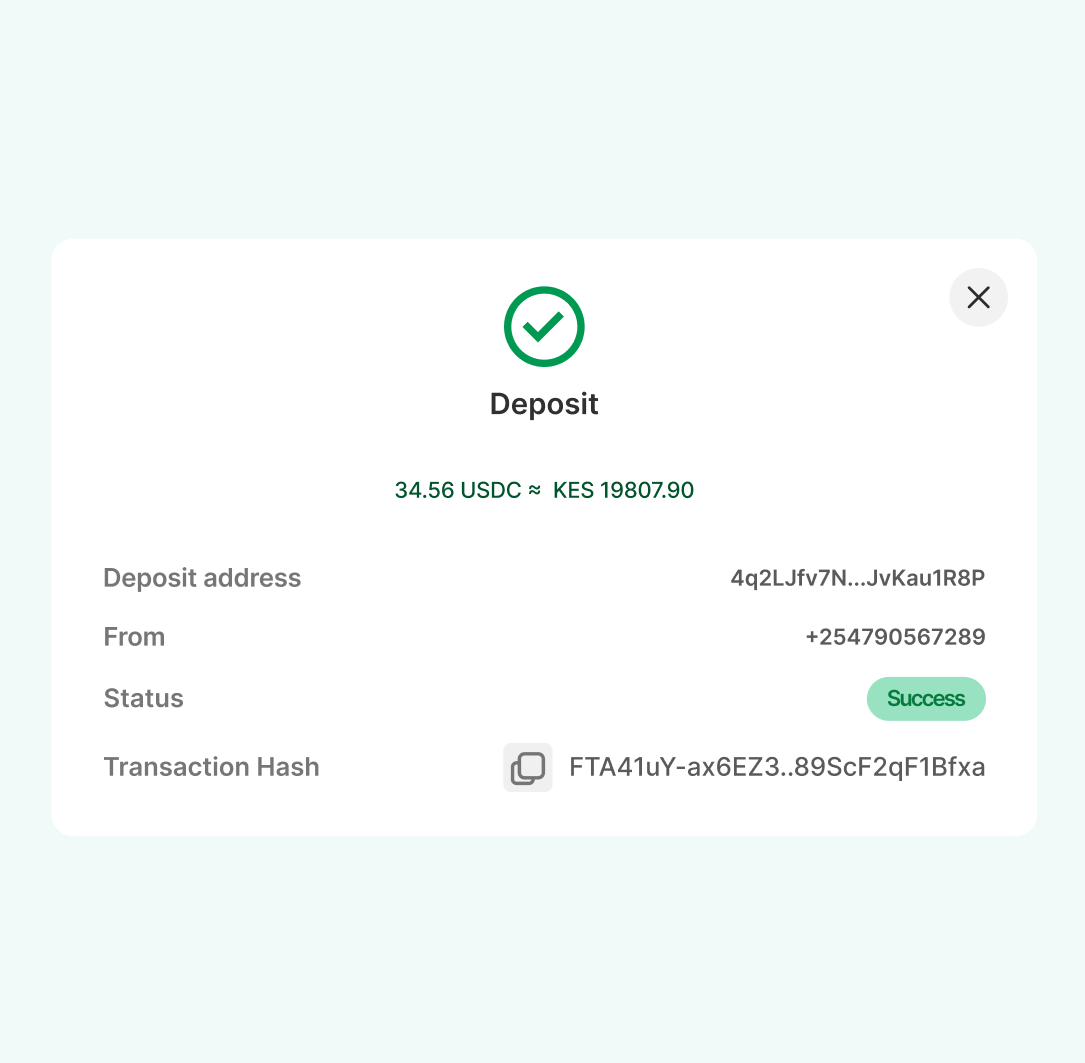
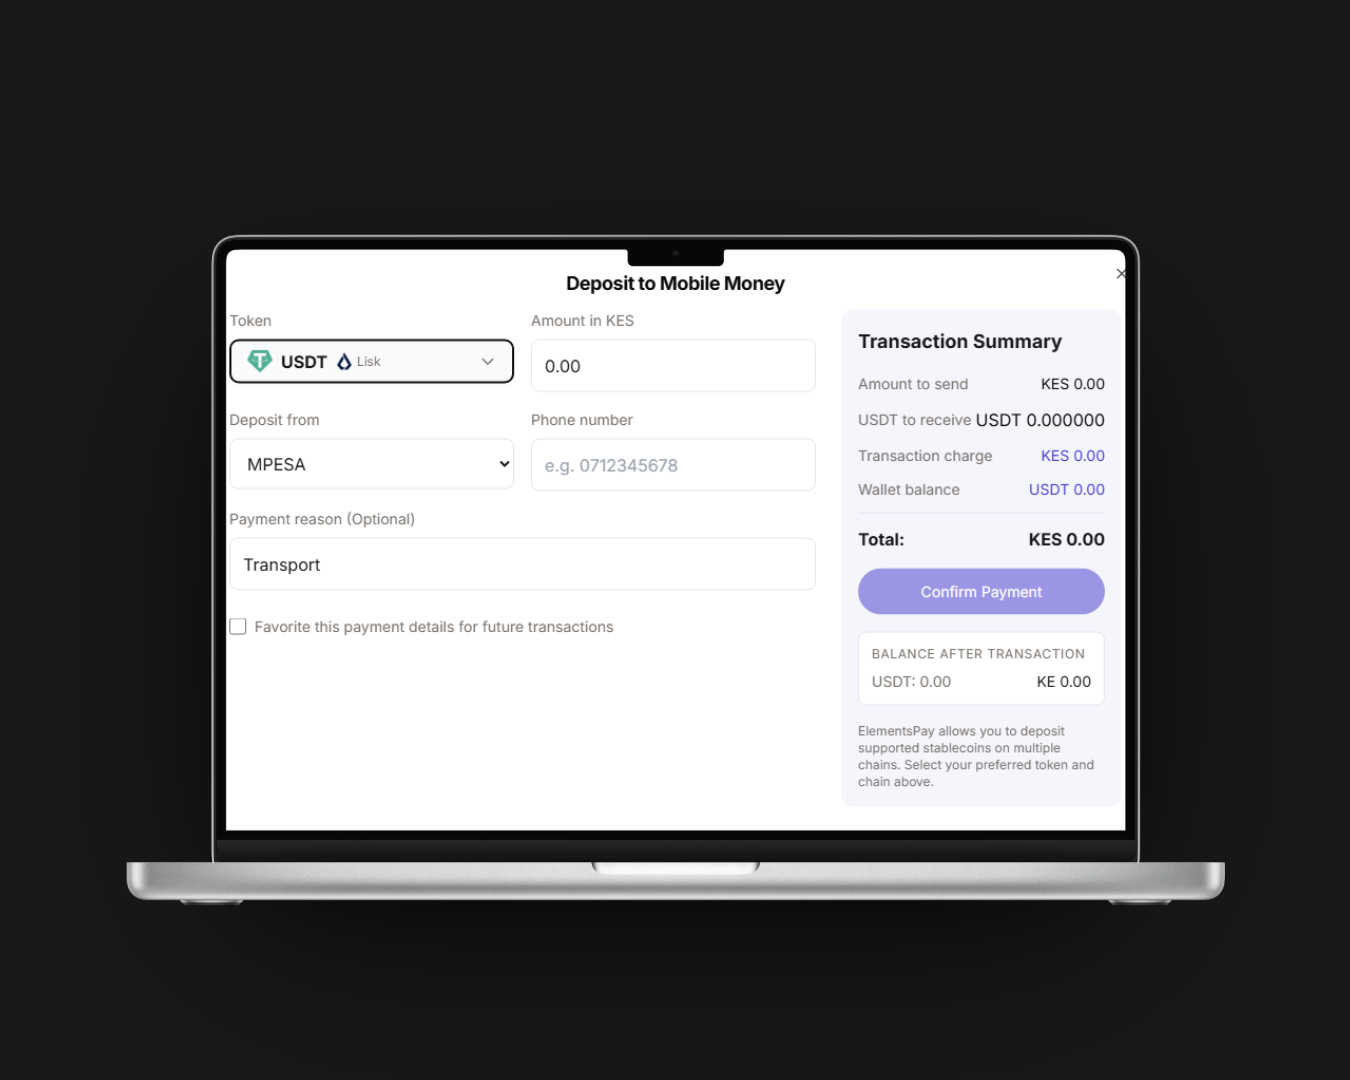
fix(mobile-ui): improve carousel visuals, OTP input behavior, and wallet layout responsiveness

diff --git a/src/components/auth/OTPStep.tsx b/src/components/auth/OTPStep.tsx
@@ -10,11 +10,6 @@ import { useAuthModalStore } from "@/stores/authModalStore";
 const OTP_LENGTH = 6;
 const RESEND_COOLDOWN = 60; // seconds
 
-/**
- * Compute the initial resend-cooldown based on the stored OTP request time.
- * If the OTP was requested recently (< RESEND_COOLDOWN ago), return the
- * remaining seconds.  Otherwise return 0 (allow immediate resend).
- */
 function initialCooldown(): number {
   const { otpRequestedAt } = useAuthStore.getState();
   if (!otpRequestedAt) return 0;
@@ -38,41 +33,68 @@ const OTPStep = () => {
   const otp = digits.join("");
   const isComplete = otp.length === OTP_LENGTH;
 
-  // If the OTP has expired (> 15 min) send user back to email step
   useEffect(() => {
     if (!otpRequestedAt || Date.now() - otpRequestedAt < OTP_TTL_MS) return;
     setModalError("Your verification code has expired. Please request a new one.");
     setStep("email");
   }, [otpRequestedAt, setStep, setModalError]);
 
-  // Countdown timer for resend
   useEffect(() => {
     if (cooldown <= 0) return;
     const id = setInterval(() => setCooldown((c) => c - 1), 1000);
     return () => clearInterval(id);
   }, [cooldown]);
 
-  // Auto-focus first input on mount
   useEffect(() => {
     inputsRef.current[0]?.focus();
   }, []);
 
+  /**
+   * Core helper: fill digits array from a raw string and focus appropriately.
+   * Used by both paste and onChange handlers.
+   */
+  const applyDigits = useCallback(
+    (raw: string, startIdx = 0) => {
+      const cleaned = raw.replace(/\D/g, "").slice(0, OTP_LENGTH - startIdx);
+      if (!cleaned) return;
+      setDigits((prev) => {
+        const next = [...prev];
+        for (let i = 0; i < cleaned.length; i++) {
+          next[startIdx + i] = cleaned[i];
+        }
+        return next;
+      });
+      setError(null);
+      setModalError(null);
+      const focusIdx = Math.min(startIdx + cleaned.length, OTP_LENGTH - 1);
+      // defer so the state update has landed before we shift focus
+      requestAnimationFrame(() => inputsRef.current[focusIdx]?.focus());
+    },
+    [setModalError],
+  );
+
   const handleChange = useCallback(
     (idx: number, value: string) => {
-      // Only allow single digit
+      // Mobile paste via onChange: value may be > 1 char
+      if (value.length > 1) {
+        applyDigits(value, idx === 0 ? 0 : idx);
+        return;
+      }
+
       const digit = value.replace(/\D/g, "").slice(-1);
-      const next = [...digits];
-      next[idx] = digit;
-      setDigits(next);
+      setDigits((prev) => {
+        const next = [...prev];
+        next[idx] = digit;
+        return next;
+      });
       if (error) setError(null);
       setModalError(null);
 
-      // Auto-advance to next input
       if (digit && idx < OTP_LENGTH - 1) {
         inputsRef.current[idx + 1]?.focus();
       }
     },
-    [digits, error, setModalError],
+    [error, setModalError, applyDigits],
   );
 
   const submitOtp = useCallback(async () => {
@@ -88,30 +110,21 @@ const OTPStep = () => {
     setLoading(true);
     setModalError(null);
     try {
-      // Call verify-otp which returns user data (tokens stored as HTTP-only cookies)
       const res = await verifyOTP(pendingEmail, otp);
       console.log("[OTPStep] verifyOTP response received");
-
       console.log("[OTPStep] User KYC status:", res.user?.kyc_status ?? "not returned");
       console.log("[OTPStep] User wallets:", res.user?.wallets ?? "not returned");
 
-      // Store auth — user profile may be incomplete until KYC is done
-      // kyc_status defaults to "none" if backend doesn't send it yet
       const user = {
         ...res.user,
         kyc_status: res.user?.kyc_status ?? "none",
       };
-
       setAuth(user);
 
-      // Store pre-fetched Privy RS256 token so PrivyAuthSync can use it
-      // without making a second HTTP call.
       if (res.privy_token) {
         useAuthStore.getState().setPrivyToken(res.privy_token);
       }
 
-      // Fast-track: if backend already has a registered embedded wallet for
-      // this user, skip wallet-choice and connect-wallet steps entirely.
       const hasRegisteredEmbeddedWallet = res.user?.wallets?.some(
         (w) => w.wallet_type === "embedded" || w.wallet_type === "privy"
       );
@@ -130,7 +143,6 @@ const OTPStep = () => {
         return;
       }
 
-      // Move to wallet choice step (embedded vs external)
       console.log("[OTPStep] Moving to wallet choice step");
       setStep("wallet-choice");
     } catch (err: any) {
@@ -144,12 +156,9 @@ const OTPStep = () => {
     (idx: number, e: React.KeyboardEvent<HTMLInputElement>) => {
       if (e.key === "Enter") {
         e.preventDefault();
-        if (isComplete && !loading) {
-          void submitOtp();
-        }
+        if (isComplete && !loading) void submitOtp();
         return;
       }
-
       if (e.key === "Backspace" && !digits[idx] && idx > 0) {
         inputsRef.current[idx - 1]?.focus();
       }
@@ -157,28 +166,24 @@ const OTPStep = () => {
     [digits, isComplete, loading, submitOtp],
   );
 
+  /**
+   * Paste handler — covers:
+   *  - Desktop: clipboardData fires on the wrapping div
+   *  - iOS/Android: if browser fires paste on the input itself
+   */
   const handlePaste = useCallback(
-    (e: React.ClipboardEvent) => {
+    (e: React.ClipboardEvent, startIdx = 0) => {
       e.preventDefault();
-      const pasted = e.clipboardData.getData("text").replace(/\D/g, "").slice(0, OTP_LENGTH);
-      if (!pasted) return;
-      const next = [...digits];
-      for (let i = 0; i < pasted.length; i++) {
-        next[i] = pasted[i];
-      }
-      setDigits(next);
-      // Focus the next empty or the last
-      const focusIdx = Math.min(pasted.length, OTP_LENGTH - 1);
-      inputsRef.current[focusIdx]?.focus();
+      const text = e.clipboardData.getData("text");
+      applyDigits(text, startIdx);
     },
-    [digits],
+    [applyDigits],
   );
 
   const handleResend = useCallback(async () => {
     if (cooldown > 0 || !pendingEmail) return;
     try {
       const { requestOTP } = await import("@/services/auth");
-      // Force a fresh OTP request (bypass idempotency)
       await requestOTP(pendingEmail, { force: true });
       setModalError(null);
       setCooldown(RESEND_COOLDOWN);
@@ -214,27 +219,33 @@ const OTPStep = () => {
       </p>
 
       <form
-        className="w-full max-w-sm"
+        className="w-full"
         onSubmit={(e) => {
           e.preventDefault();
           if (loading || !isComplete) return;
           void submitOtp();
         }}
       >
-        {/* OTP digit boxes */}
-        <div className="flex gap-2.5 mb-4" onPaste={handlePaste}>
+        {/* OTP digit boxes — flex so they shrink on narrow screens */}
+        <div
+          className="flex gap-2 mb-4 w-full"
+          onPaste={(e) => handlePaste(e, 0)}
+        >
           {digits.map((d, i) => (
             <input
               key={i}
               ref={(el) => { inputsRef.current[i] = el; }}
               type="text"
               inputMode="numeric"
-              maxLength={1}
+              autoComplete={i === 0 ? "one-time-code" : "off"}
+              maxLength={6}   /* allow full paste into a single box on iOS */
               value={d}
               onChange={(e) => handleChange(i, e.target.value)}
               onKeyDown={(e) => handleKeyDown(i, e)}
+              onPaste={(e) => handlePaste(e, i)}
               className={`
-                w-12 h-14 rounded-xl border text-center text-xl font-semibold
+                flex-1 min-w-0 h-12 sm:h-14 rounded-xl border text-center
+                text-lg sm:text-xl font-semibold
                 bg-[var(--landing-input-bg)] text-[var(--landing-heading)]
                 outline-none transition-all
                 ${error
@@ -250,7 +261,7 @@ const OTPStep = () => {
         </div>
 
         {error && (
-          <p className="text-xs text-red-500 mb-4" role="alert">
+          <p className="text-xs text-red-500 mb-4 text-left" role="alert">
             {error}
           </p>
         )}
@@ -259,7 +270,7 @@ const OTPStep = () => {
           type="submit"
           disabled={loading || !isComplete}
           className="
-            w-full max-w-sm flex items-center justify-center gap-2
+            w-full flex items-center justify-center gap-2
             rounded-xl py-3.5 text-base font-semibold
             text-white bg-[var(--landing-accent)] hover:bg-[var(--landing-accent-hover)]
             disabled:opacity-50 disabled:cursor-not-allowed
@@ -285,9 +296,7 @@ const OTPStep = () => {
         className="mt-4 flex items-center gap-1.5 text-sm text-[var(--landing-muted)] hover:text-[var(--landing-accent)] disabled:opacity-50 disabled:cursor-not-allowed transition-colors"
       >
         <RotateCcw className="w-3.5 h-3.5" />
-        {cooldown > 0
-          ? `Resend code in ${cooldown}s`
-          : "Resend code"}
+        {cooldown > 0 ? `Resend code in ${cooldown}s` : "Resend code"}
       </button>
     </motion.div>
   );

diff --git a/src/components/dashboard/DashboardHeader.tsx b/src/components/dashboard/DashboardHeader.tsx
@@ -13,19 +13,20 @@ const DashboardHeader = () => {
   const [switchOpen, setSwitchOpen] = useState(false);
 
   const activeWallet = useMemo(
-    () => wallets.find((wallet) => sameWalletAddress(wallet.address, address)) ?? null,
+    () => wallets.find((wallet) => sameWalletAddress(wallet.address, address ?? "")) ?? null,
     [wallets, address],
   );
 
   const handleCopyAddress = () => {
-    navigator.clipboard.writeText(address || "");
+    if (!address) return;
+    navigator.clipboard.writeText(address);
     setCopied(true);
     setTimeout(() => setCopied(false), 2000);
   };
 
   return (
     <div className="w-full">
-      <div className="flex flex-col sm:flex-row sm:items-center sm:justify-between gap-2">
+      <div className="flex flex-col sm:flex-row sm:items-center sm:justify-between gap-3">
         <div>
           <h1 className="text-lg font-bold tracking-tight text-[var(--ep-heading)]">
             Welcome back
@@ -37,24 +38,28 @@ const DashboardHeader = () => {
         </div>
 
         {address && (
-          <div className="flex flex-col sm:flex-row items-stretch sm:items-center gap-2 self-start">
+          <div className="flex flex-row items-center gap-2 min-w-0">
             <button
               onClick={handleCopyAddress}
-              className="flex items-center gap-3 rounded-2xl px-3 py-1 bg-[var(--ep-accent-muted)] text-[var(--ep-heading)] border border-[var(--ep-accent)]/20 hover:bg-[var(--ep-accent)]/15 transition-colors"
+              className="flex items-center gap-2 rounded-2xl px-3 py-2 min-w-0 flex-1 sm:flex-none
+                bg-[var(--ep-accent-muted)] text-[var(--ep-heading)]
+                border border-[var(--ep-accent)]/20
+                hover:bg-[var(--ep-accent)]/15 transition-colors"
             >
-              <div className="flex h-10 w-10 flex-shrink-0 items-center justify-center rounded-2xl bg-white/90 shadow-sm">
+              <div className="flex h-9 w-9 flex-shrink-0 items-center justify-center rounded-xl bg-[var(--ep-accent)]/15">
                 <WalletClientIcon clientType={activeWallet?.walletClientType} size={20} />
               </div>
+
               <div className="min-w-0 text-left">
-               
-                <p className="text-sm font-semibold text-[var(--ep-heading)]">
+                <p className="text-sm font-semibold text-[var(--ep-heading)] truncate">
                   {walletLabel(activeWallet?.walletClientType)}
                 </p>
-                <p className="text-xs font-mono text-[var(--ep-accent)] truncate max-w-[180px] sm:max-w-[250px]">
+                <p className="text-xs font-mono text-[var(--ep-accent)] truncate max-w-[100px] sm:max-w-[200px]">
                   {truncateAddress(address)}
                 </p>
               </div>
-              <div className="flex h-8 w-8 flex-shrink-0 items-center justify-center rounded-full bg-white/80">
+
+              <div className="flex h-7 w-7 flex-shrink-0 items-center justify-center rounded-full bg-[var(--ep-accent)]/10">
                 {copied ? (
                   <Check className="h-3.5 w-3.5 text-emerald-500" />
                 ) : (
@@ -65,11 +70,16 @@ const DashboardHeader = () => {
 
             <button
               onClick={() => setSwitchOpen(true)}
-              className="flex items-center justify-center gap-2 rounded-2xl px-4 py-3 text-sm font-semibold bg-[var(--ep-bg-input)] text-[var(--ep-heading)] border border-[var(--ep-border)] hover:border-[var(--ep-accent)]/40 hover:bg-[var(--ep-accent-muted)] hover:text-[var(--ep-accent)] transition-colors"
+              className="flex flex-shrink-0 items-center justify-center gap-2 rounded-2xl px-3 py-2
+                text-sm font-semibold
+                bg-[var(--ep-bg-input)] text-[var(--ep-heading)]
+                border border-[var(--ep-border)]
+                hover:border-[var(--ep-accent)]/40 hover:bg-[var(--ep-accent-muted)] hover:text-[var(--ep-accent)]
+                transition-colors"
               aria-label="Switch wallet"
             >
-              <ArrowLeftRight className="h-4 w-4" />
-              <span>Switch Wallet</span>
+              <ArrowLeftRight className="h-4 w-4 flex-shrink-0" />
+              <span className="hidden xs:inline sm:inline">Switch Wallet</span>
             </button>
           </div>
         )}
